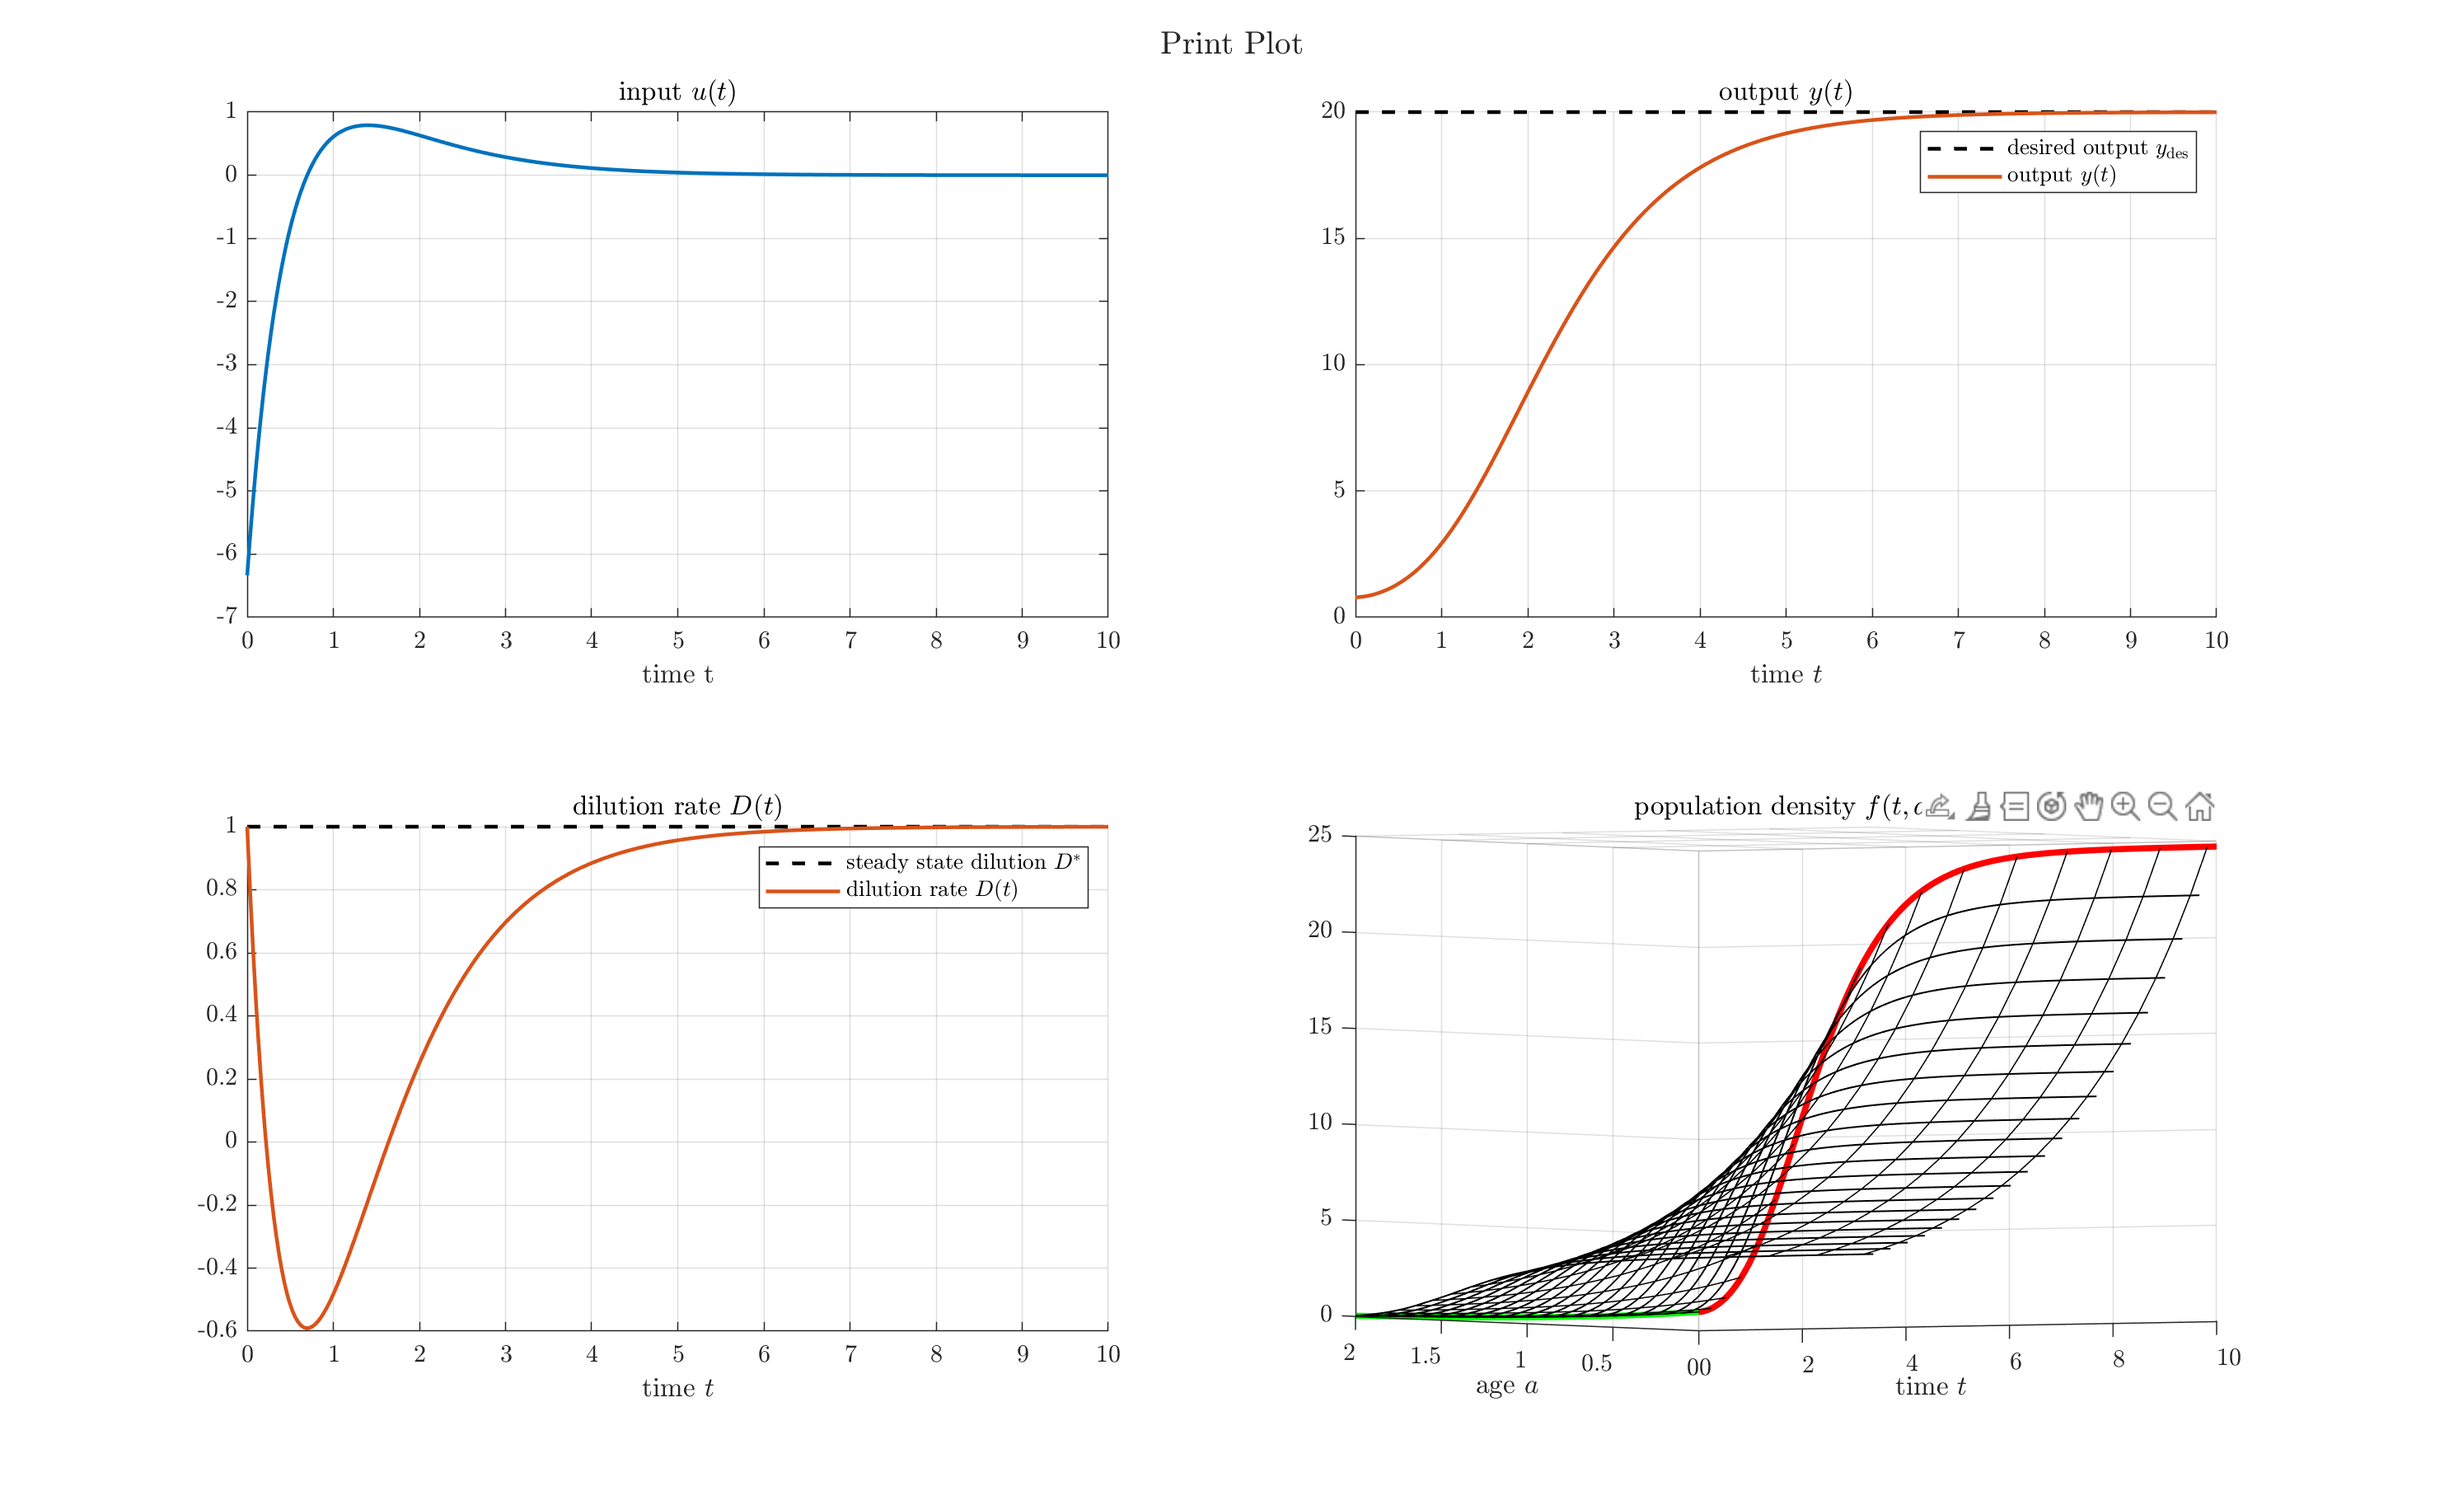
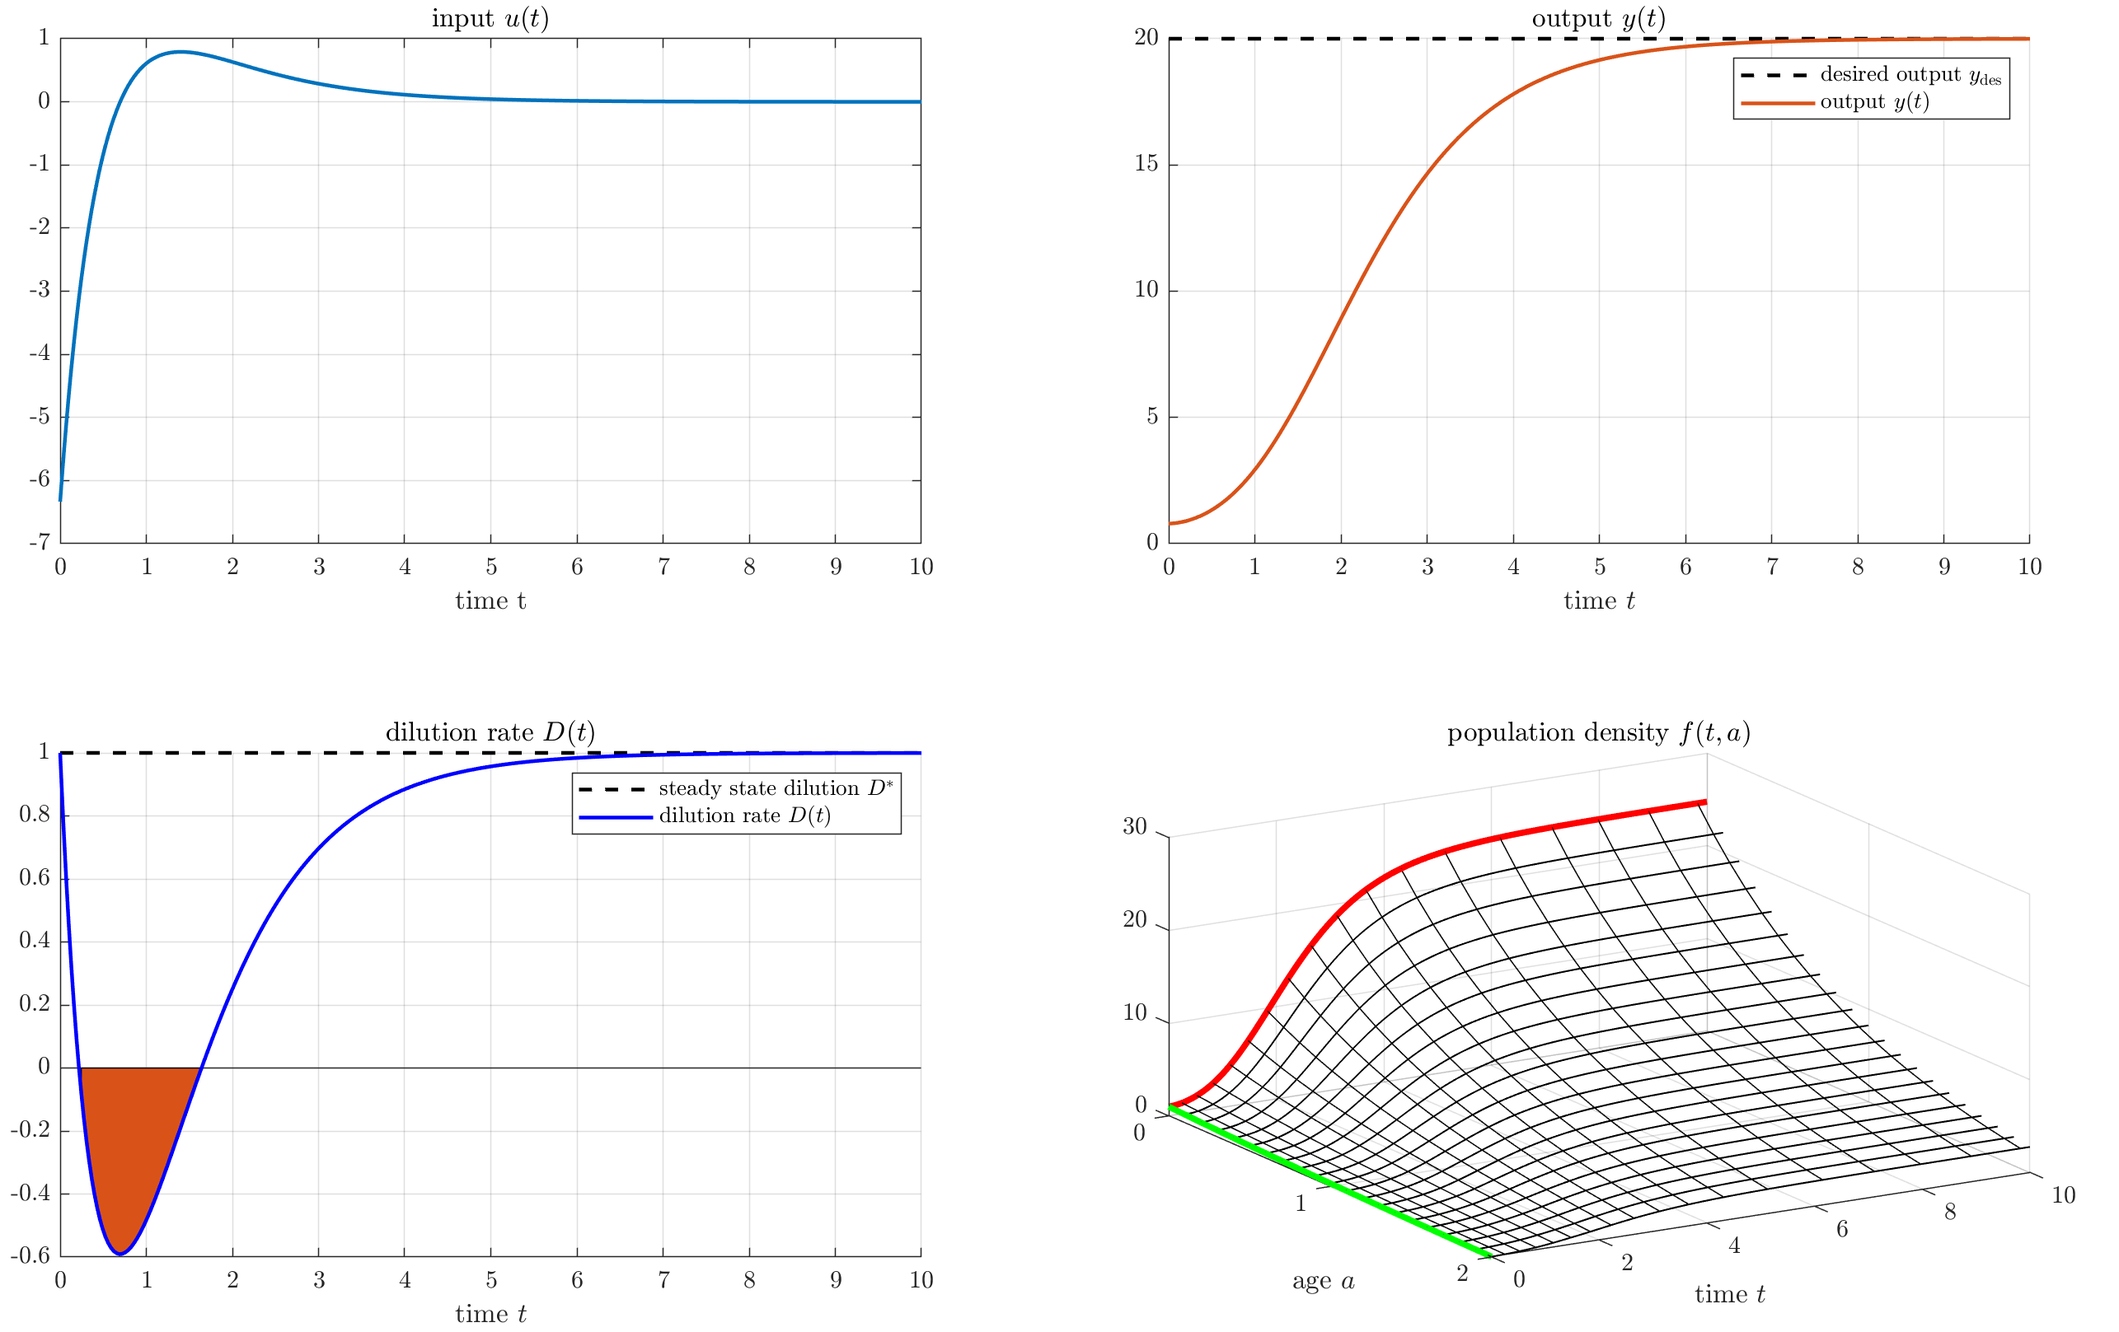
Added Plot of Lyapunov Functional

diff --git a/simulation_ActuatorDynamics.m b/simulation_ActuatorDynamics.m
@@ -9,36 +9,36 @@ clear
 
 %% ------ parameters
 
-% % [Schmidt17]
-% A = 2; % max age
-% mu = @(a) .1; % mortality rate fcn
-% k = @(a) 2*a.*(A-a); % birth kernel
-% p = @(a) 1; % output kernel
-% manuallyProvideMuINT = false; % boolean, that switches integral of mu on or off.
-% D_star = 1; % steady-state dilution rate
-% y0 = 1; % initial output
-% c1 = -.066;
-% c2 = -.9;
-% x0 = @(a) c1*a + exp(c2*a); % IC
-% sigma(1) = -4.0335; % eigenvalues of the form lambda = -sigma/A+-j*omega/(2*pi*A)
-% omega(1) = 55.4606;
-% sigma(2) = -4.9866;
-% omega(2) = 95.7048;
-
-% [KurthSawodny21]
+% [Schmidt17]
 A = 2; % max age
-mu = @(a) 1./(20-5*a); % mortality rate function - problem: matlab cannot find the correct integral...
-k = @(a) a; % birth kernel
-p = @(a) 1+.1*a.^2; % output kernel
-manuallyProvideMuINT = true; % boolean, that switches integral of mu on or off.
-mu_int = @(a) -log((4-a)/4)/5; % = int_0^a mu(s) ds for a \in [0,2]
-D_star = 0.4837;
+mu = @(a) .1; % mortality rate fcn
+k = @(a) 2*a.*(A-a); % birth kernel
+p = @(a) 1; % output kernel
+manuallyProvideMuINT = false; % boolean, that switches integral of mu on or off.
+D_star = 1; % steady-state dilution rate
 y0 = 1; % initial output
-x0 = @(a) 8-3*a; % IC
-sigma(1) = -1.8224; % eigenvalues of the form lambda = -sigma/A+-j*omega/(2*pi*A)
-omega(1) = 48.0574;
-sigma(2) = -2.3838;
-omega(2) = 87.8539;
+c1 = -.066;
+c2 = -.9;
+x0 = @(a) c1*a + exp(c2*a); % IC
+sigma(1) = -4.0335; % eigenvalues of the form lambda = -sigma/A+-j*omega/(2*pi*A)
+omega(1) = 55.4606;
+sigma(2) = -4.9866;
+omega(2) = 95.7048;
+
+% % [KurthSawodny21]
+% A = 2; % max age
+% mu = @(a) 1./(20-5*a); % mortality rate function - problem: matlab cannot find the correct integral...
+% k = @(a) a; % birth kernel
+% p = @(a) 1+.1*a.^2; % output kernel
+% manuallyProvideMuINT = true; % boolean, that switches integral of mu on or off.
+% mu_int = @(a) -log((4-a)/4)/5; % = int_0^a mu(s) ds for a \in [0,2]
+% D_star = 0.4837;
+% y0 = 1; % initial output
+% x0 = @(a) 8-3*a; % IC
+% sigma(1) = -1.8224; % eigenvalues of the form lambda = -sigma/A+-j*omega/(2*pi*A)
+% omega(1) = 48.0574;
+% sigma(2) = -2.3838;
+% omega(2) = 87.8539;
 
 %% stash of unordered parameter sets
 
@@ -107,7 +107,7 @@ parameter.omega(2) = omega(2);
 % choose desired setpoint for output - equivalent to choosing a desired
 % equilibrium profile x^\ast(a), or better its family parameter.
 % y_des = 1.5;
-y_des = 20;
+y_des = 15;
 
 % --- controller parameters
 c = 2; % control gain c > 0
@@ -132,10 +132,10 @@ u_stabilize = @(rho) -c*(rho(end)-D_star-log(C_mat*rho(1:end-1)/y_des)); % stabi
 % u_constraint = @(rho) 0; % ignore constraints on D(t)
 % u_constraint =  @(rho) -log(rho(end)/D_star); % logarithmic penalty of D(t)->0
 % u_constraint =  @(rho) (y_des)/4*(- rho(end) + D_star); % linear penalty of D(t)->0
-% u_constraint =  @(rho) max(0,- u_cancel(rho) - u_stabilize(rho) ...
-%                 +(-rho(end)+D_min)); % Safety-Filter for D(t) > D_min
-u_constraint =  @(rho) max(0,-(u_cancel(rho) + u_stabilize(rho))*L_g_h(rho(end))...
-                        - h_fcn(rho(end)))/L_g_h(rho(end)); % Safety-Filter for D(t) \in [D_min,D_max]
+u_constraint =  @(rho) max(0,- u_cancel(rho) - u_stabilize(rho) ...
+                +(-rho(end)+D_min)); % Safety-Filter for D(t) > D_min
+% u_constraint =  @(rho) max(0,-(u_cancel(rho) + u_stabilize(rho))*L_g_h(rho(end))...
+%                         - h_fcn(rho(end)))/L_g_h(rho(end)); % Safety-Filter for D(t) \in [D_min,D_max]
 
 u_ctrl = @(rho) u_cancel(rho) + u_stabilize(rho) + u_constraint(rho);
 
@@ -251,7 +251,8 @@ grid on
 nexttile
 hold on
 plot(t_sample,ones(size(D_sample))*D_star,'--k','Linewidth',1.5)
-plot(t_sample,D_sample)
+area(t_sample(D_sample<= D_min),D_sample(D_sample<= D_min), D_min,'FaceColor',[0.8500 0.3250 0.0980],'HandleVisibility','off')
+plot(t_sample,D_sample,'b')
 title('dilution rate $D(t)$')
 legend('steady state dilution $D^\ast$','dilution rate $D(t)$')
 xlabel('time $t$')
@@ -318,8 +319,8 @@ t_sample_negTime = -2:.01:0;
 psi_sample_negTime = phi{end}(-t_sample_negTime)./f_star_fcn(-t_sample_negTime)/pi_vec(end) -1;
 
 % plotting
-figure
-tiles_handle = tiledlayout(2,1);
+figure('units','normalized','outerposition',[0 0 1 1])
+tiles_handle = tiledlayout(2,2);
 title(tiles_handle,'transformed states','Interpreter','Latex')
 
 nexttile
@@ -334,6 +335,40 @@ hold on
 plot(t_sample,psi_sample_posTime)
 plot(t_sample_negTime,psi_sample_negTime)
 title('infinite-dim. state $\psi(t)$')
+xlabel('time $t$')
+grid on
+
+% phase portrait plot
+nexttile
+hold on
+plot(D_sample,eta_sample)
+title('phase portrait')
+xlabel('Dilution rate $D$')
+ylabel('1-dim. state $\eta$')
+grid on
+
+% Lyapunov Functional
+par_sigma = .1; % suff small parameter
+par_M_hat = 2*exp(2*par_sigma*A)/par_sigma; % suff large parameter
+delta_sample = D_sample' - D_star - log(y_sample/y_des); % dilution error
+G_Lyap_Sample = zeros(size(t_sample)); % Lyap Functional G wrt psi
+t_sample_ext = [t_sample_negTime, t_sample']; % extended time sample
+psi_sample_ext = [psi_sample_negTime,psi_sample_posTime]; % extended psi sample
+for kk = length(t_sample_negTime)+1:length(t_sample_ext)
+    indx_start = find(t_sample_ext>=t_sample_ext(kk)-A,1);
+    psi_stage = psi_sample_ext(indx_start:kk);
+    t_sample_stage = t_sample_ext(indx_start:kk);
+    G_num = max(abs(psi_stage).*exp(par_sigma*(t_sample_stage-t_sample_ext(kk))));
+    G_den = 1 + min(0,min(psi_stage));
+    G_Lyap_Sample(kk-length(t_sample_negTime)) = G_num/G_den;
+end
+C_Lyap_Sample = .5*eta_sample.^2+.5*delta_sample.^2+.5*par_M_hat*G_Lyap_Sample'.^2;
+
+% plot
+nexttile
+hold on
+plot(t_sample,C_Lyap_Sample)
+title('Lyapunov Functional $\tilde C(\eta(t),\delta(t),\psi_t)$')
 xlabel('time $t$')
 grid on
 

diff --git a/simulation_basic.m b/simulation_basic.m
@@ -91,7 +91,7 @@ parameter.omega(2) = omega(2);
 % here, with steady state input u(t) == D_star
 % denote the simulation state by lambda
 
-D_ctrl = @(t,lambda) D_star;
+D_ctrl = @(t,lambda) D_star*1.5;
 
 dynamics = @(t,lambda) (A_mat-eye(size(A_mat))*D_ctrl(t,lambda))*lambda;
 
